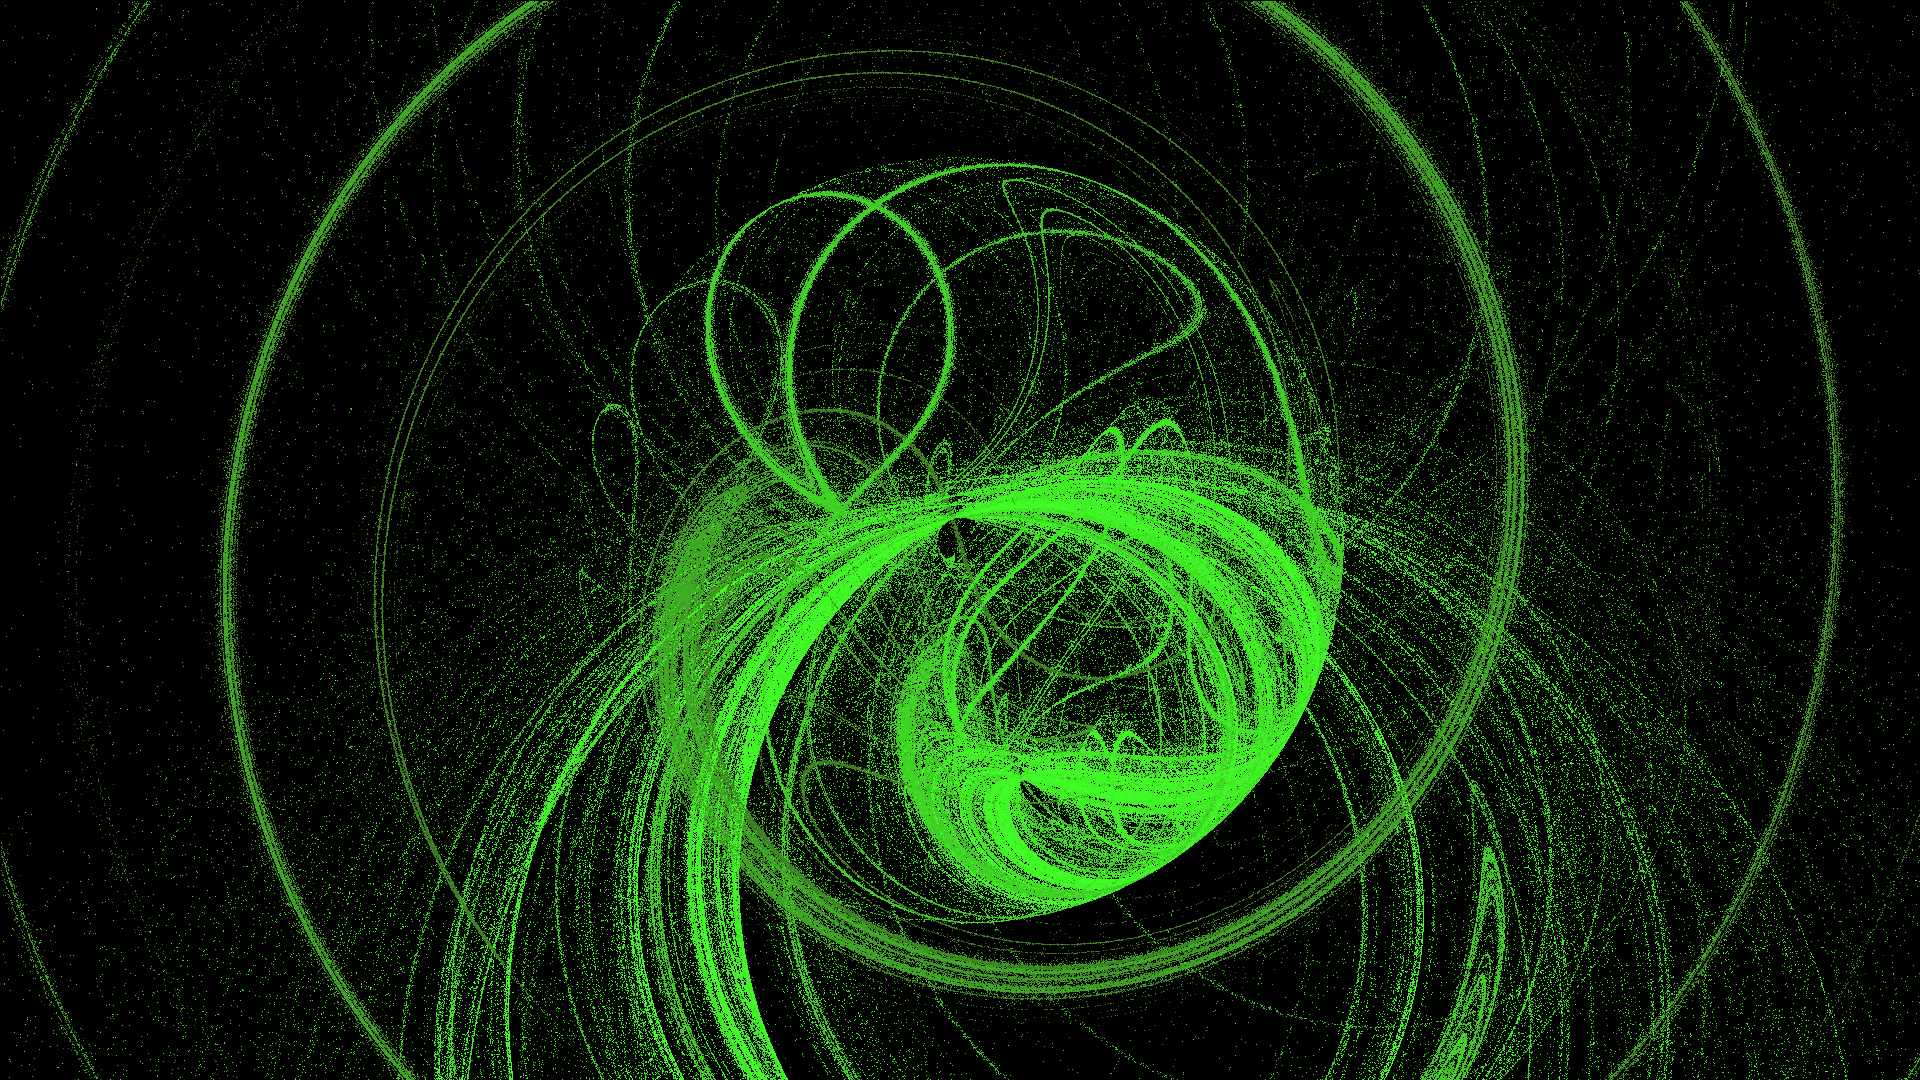
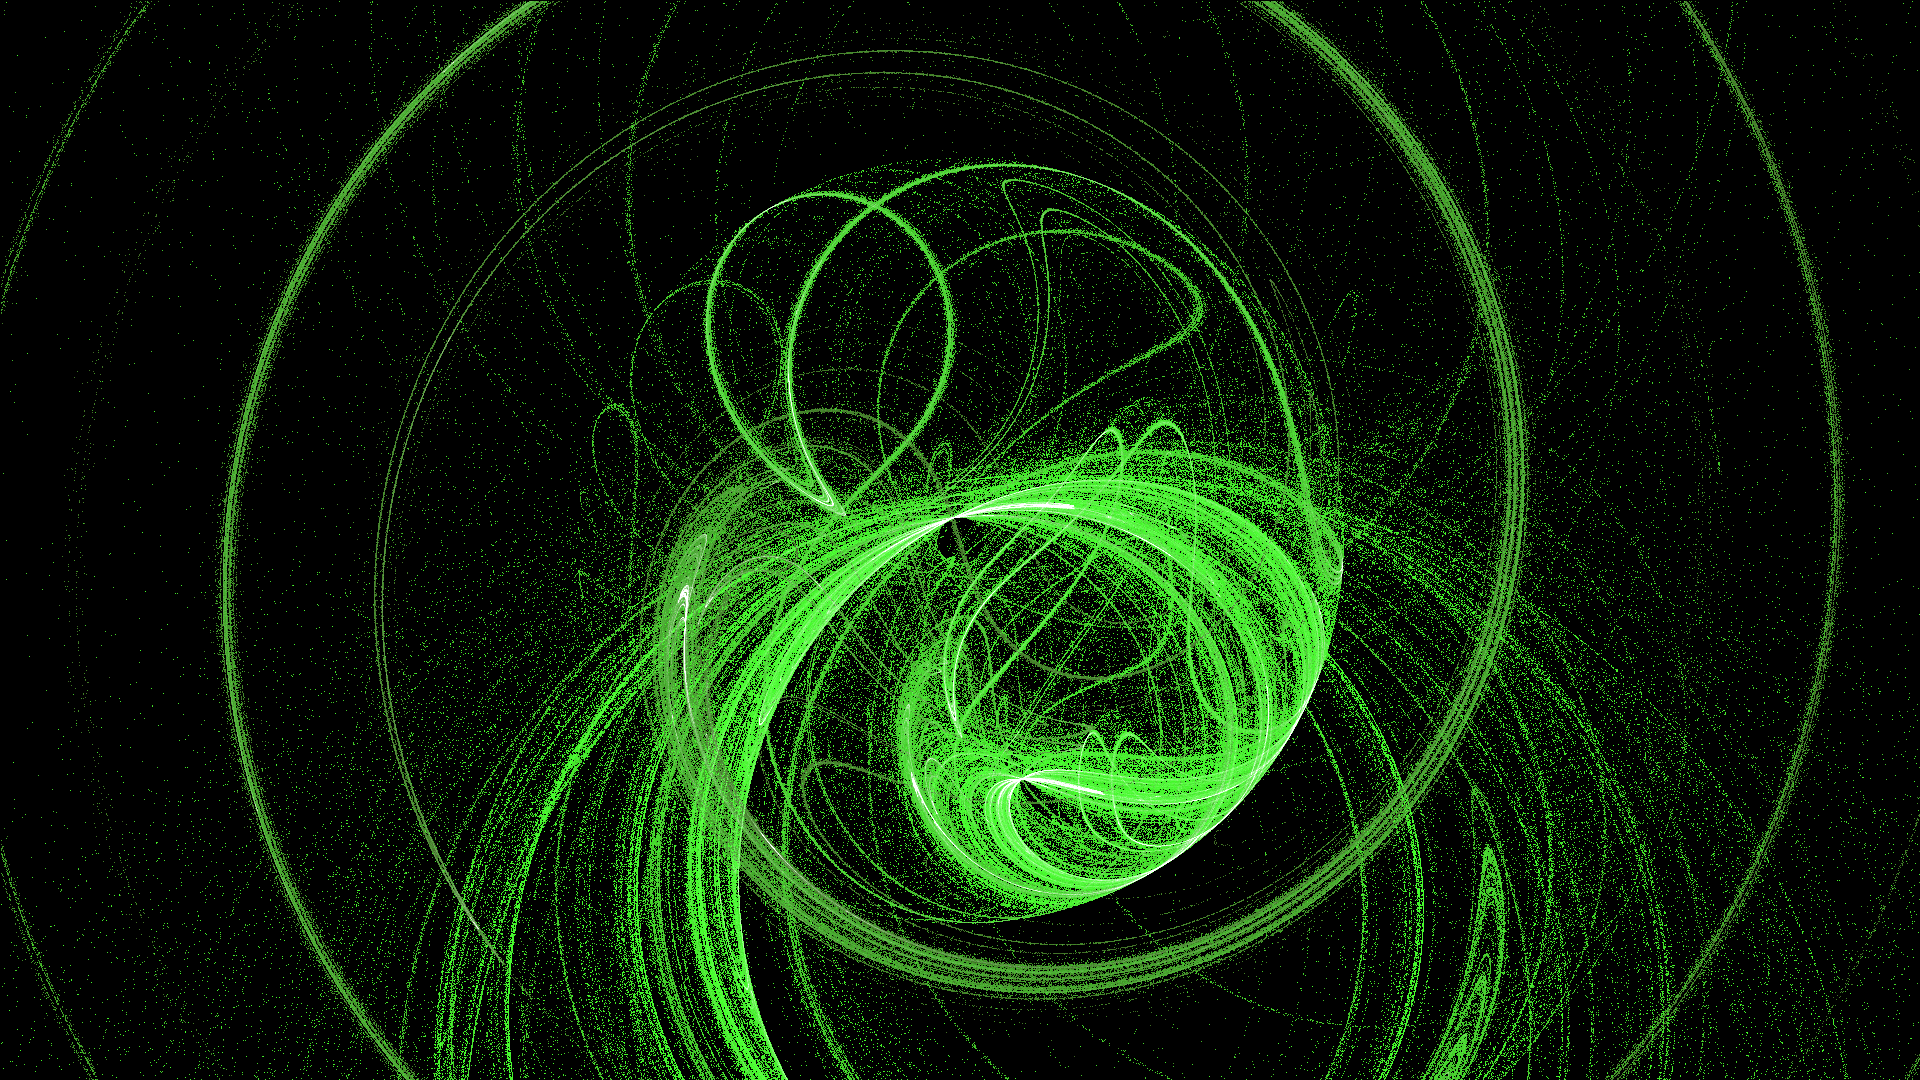
Added alpha channel

diff --git a/Source/Flames.ts b/Source/Flames.ts
@@ -1,7 +1,7 @@
 import sharp from "sharp"
 import { IFSTransform, createRandomTransform } from "./IFSTransform"
 import { WeightedVariation, linearVariation, swirlVariation } from "./Variations"
-import { Color, XY, mergeColor } from "./mathu"
+import { Color, XY, clamp, mergeColor } from "./mathu"
 import { readFileSync, writeFileSync } from "fs"
 
 export type Flames = {
@@ -115,7 +115,7 @@ export async function createFlameImage(resolution: XY, flames: Flames) {
 		b: Math.random(),
 	}
 
-	const pixels = new Uint16Array(resolution.x * resolution.y * 3)
+	const pixels = new Uint16Array(resolution.x * resolution.y * 4).map((e, i) => (i+1) % 4 == 0 ? 255 : 0)
 
 	for (let i = 0; i < 2000000; i++) {
 		const currentComponent = randomWeigthedSelection(flames.components)
@@ -135,7 +135,6 @@ export async function createFlameImage(resolution: XY, flames: Flames) {
 
 		p = newP
 
-		
 		color = mergeColor(color, currentComponent.color)
 
 		if (i > 20) {
@@ -145,11 +144,12 @@ export async function createFlameImage(resolution: XY, flames: Flames) {
 			}
 			if (pixel.x > 0 && pixel.x < resolution.x && pixel.y > 0 && pixel.y < resolution.y)
 			{
-				const idx = pixel.y * resolution.x * 3 + pixel.x * 3
+				const idx = pixel.y * resolution.x * 4 + pixel.x * 4
 			
 				pixels[idx+0] = color.r * 255
 				pixels[idx+1] = color.g * 255
 				pixels[idx+2] = color.b * 255
+				pixels[idx+3] = clamp(0, 255, pixels[idx+3] - 4)
 			}
 		}
 	}
@@ -160,7 +160,7 @@ export async function createFlameImage(resolution: XY, flames: Flames) {
 		raw: {
 			width: resolution.x,
 			height: resolution.y,
-			channels: 3,
+			channels: 4,
 		}
 	}).toFile("output.png")
 }

diff --git a/Source/mathu.ts b/Source/mathu.ts
@@ -4,10 +4,14 @@ export type Color = {r: number, g: number, b: number}
 export type XYZ = XY & {z: number}
 export type Vec3 = XYZ 
 
-export function c01(x: number) {
-	if (x < 0) return 0
-	if (x > 1) return 1
+export function clamp(edgeA: number, edgeB: number, x: number) {
+	if (x < edgeA) return edgeA
+	if (x > edgeB) return edgeB
 	return x
+}
+
+export function c01(x: number) {
+	return clamp(0, 1, x)
 }
 
 export function smoothstep(edge0: number, edge1: number, x: number): number {
